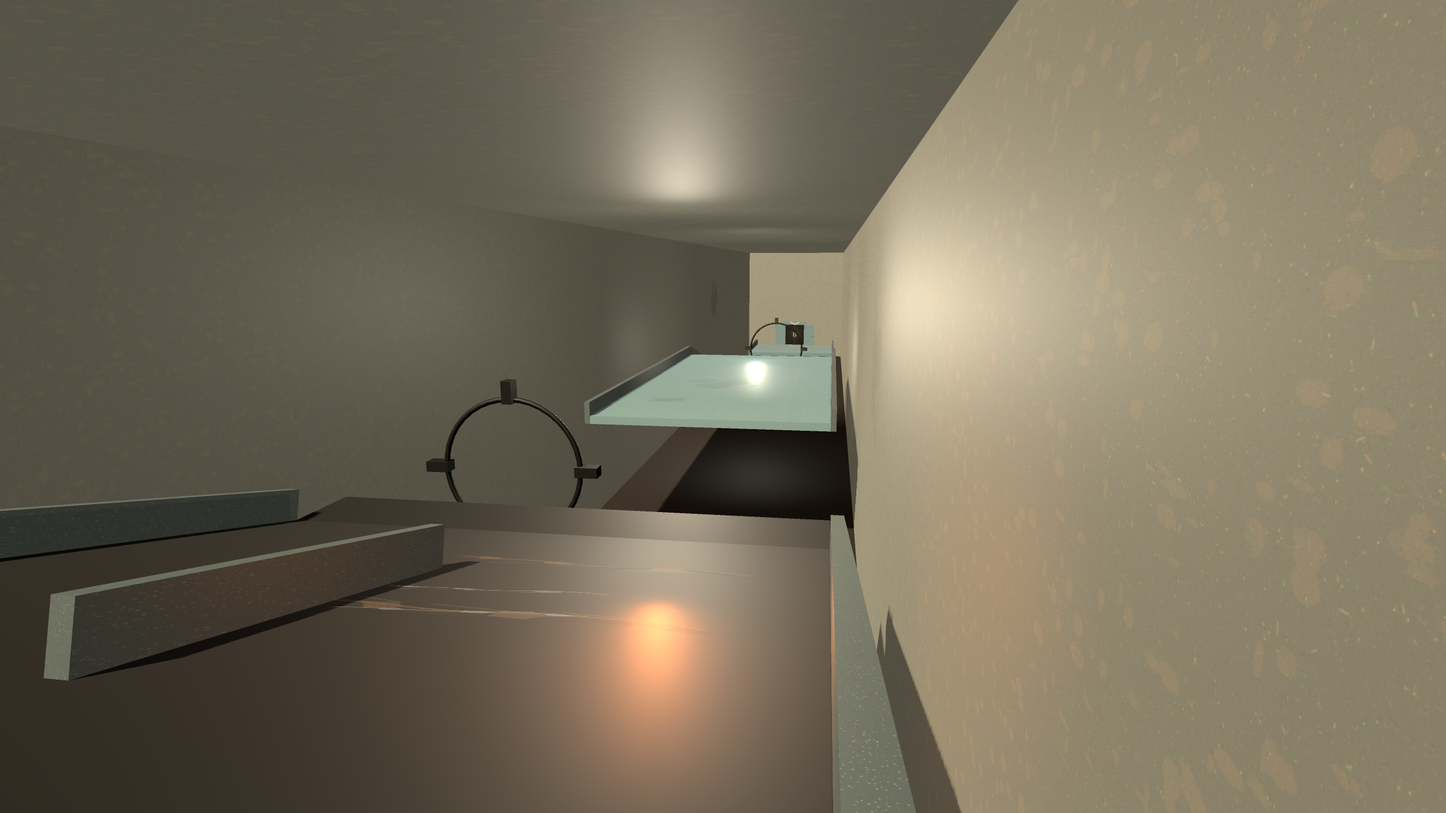
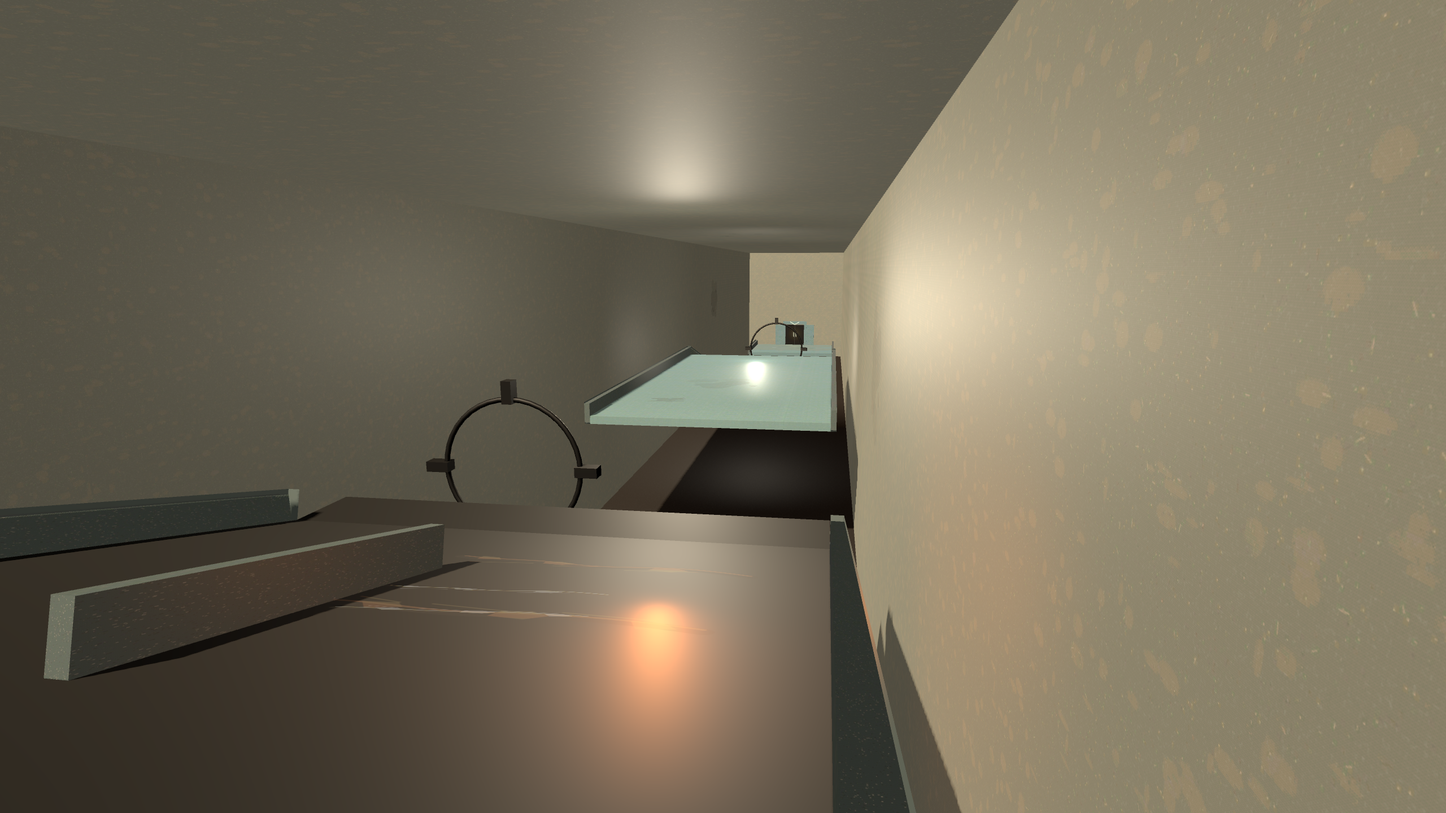
Preserve wall materials when importing Blender room edits

Changed region(s): [[0.5625, 0.625, 0.625, 1.0], [0.4062, 0.4688, 0.4375, 0.5], [0.1875, 0.5938, 0.2188, 0.625]]

diff --git a/src/Gameplay/Rooms/BlenderRoomEdits.cs b/src/Gameplay/Rooms/BlenderRoomEdits.cs
@@ -55,6 +55,12 @@ internal static class BlenderRoomEdits
             return;
         }
 
+        Material? wallMaterial = wallsRoot.GetChildren()
+            .OfType<StaticBody3D>()
+            .SelectMany(body => body.GetChildren().OfType<MeshInstance3D>())
+            .Select(mesh => mesh.MaterialOverride ?? mesh.Mesh?.SurfaceGetMaterial(0))
+            .FirstOrDefault(material => material is not null);
+
         foreach (Node oldWall in wallsRoot.GetChildren())
         {
             wallsRoot.RemoveChild(oldWall);
@@ -76,6 +82,10 @@ internal static class BlenderRoomEdits
             wallsRoot.AddChild(body);
 
             importedWall.Transform = importedTransform;
+            if (wallMaterial is not null)
+            {
+                importedWall.MaterialOverride = wallMaterial;
+            }
             body.AddChild(importedWall);
 
             CollisionShape3D collision = new()
